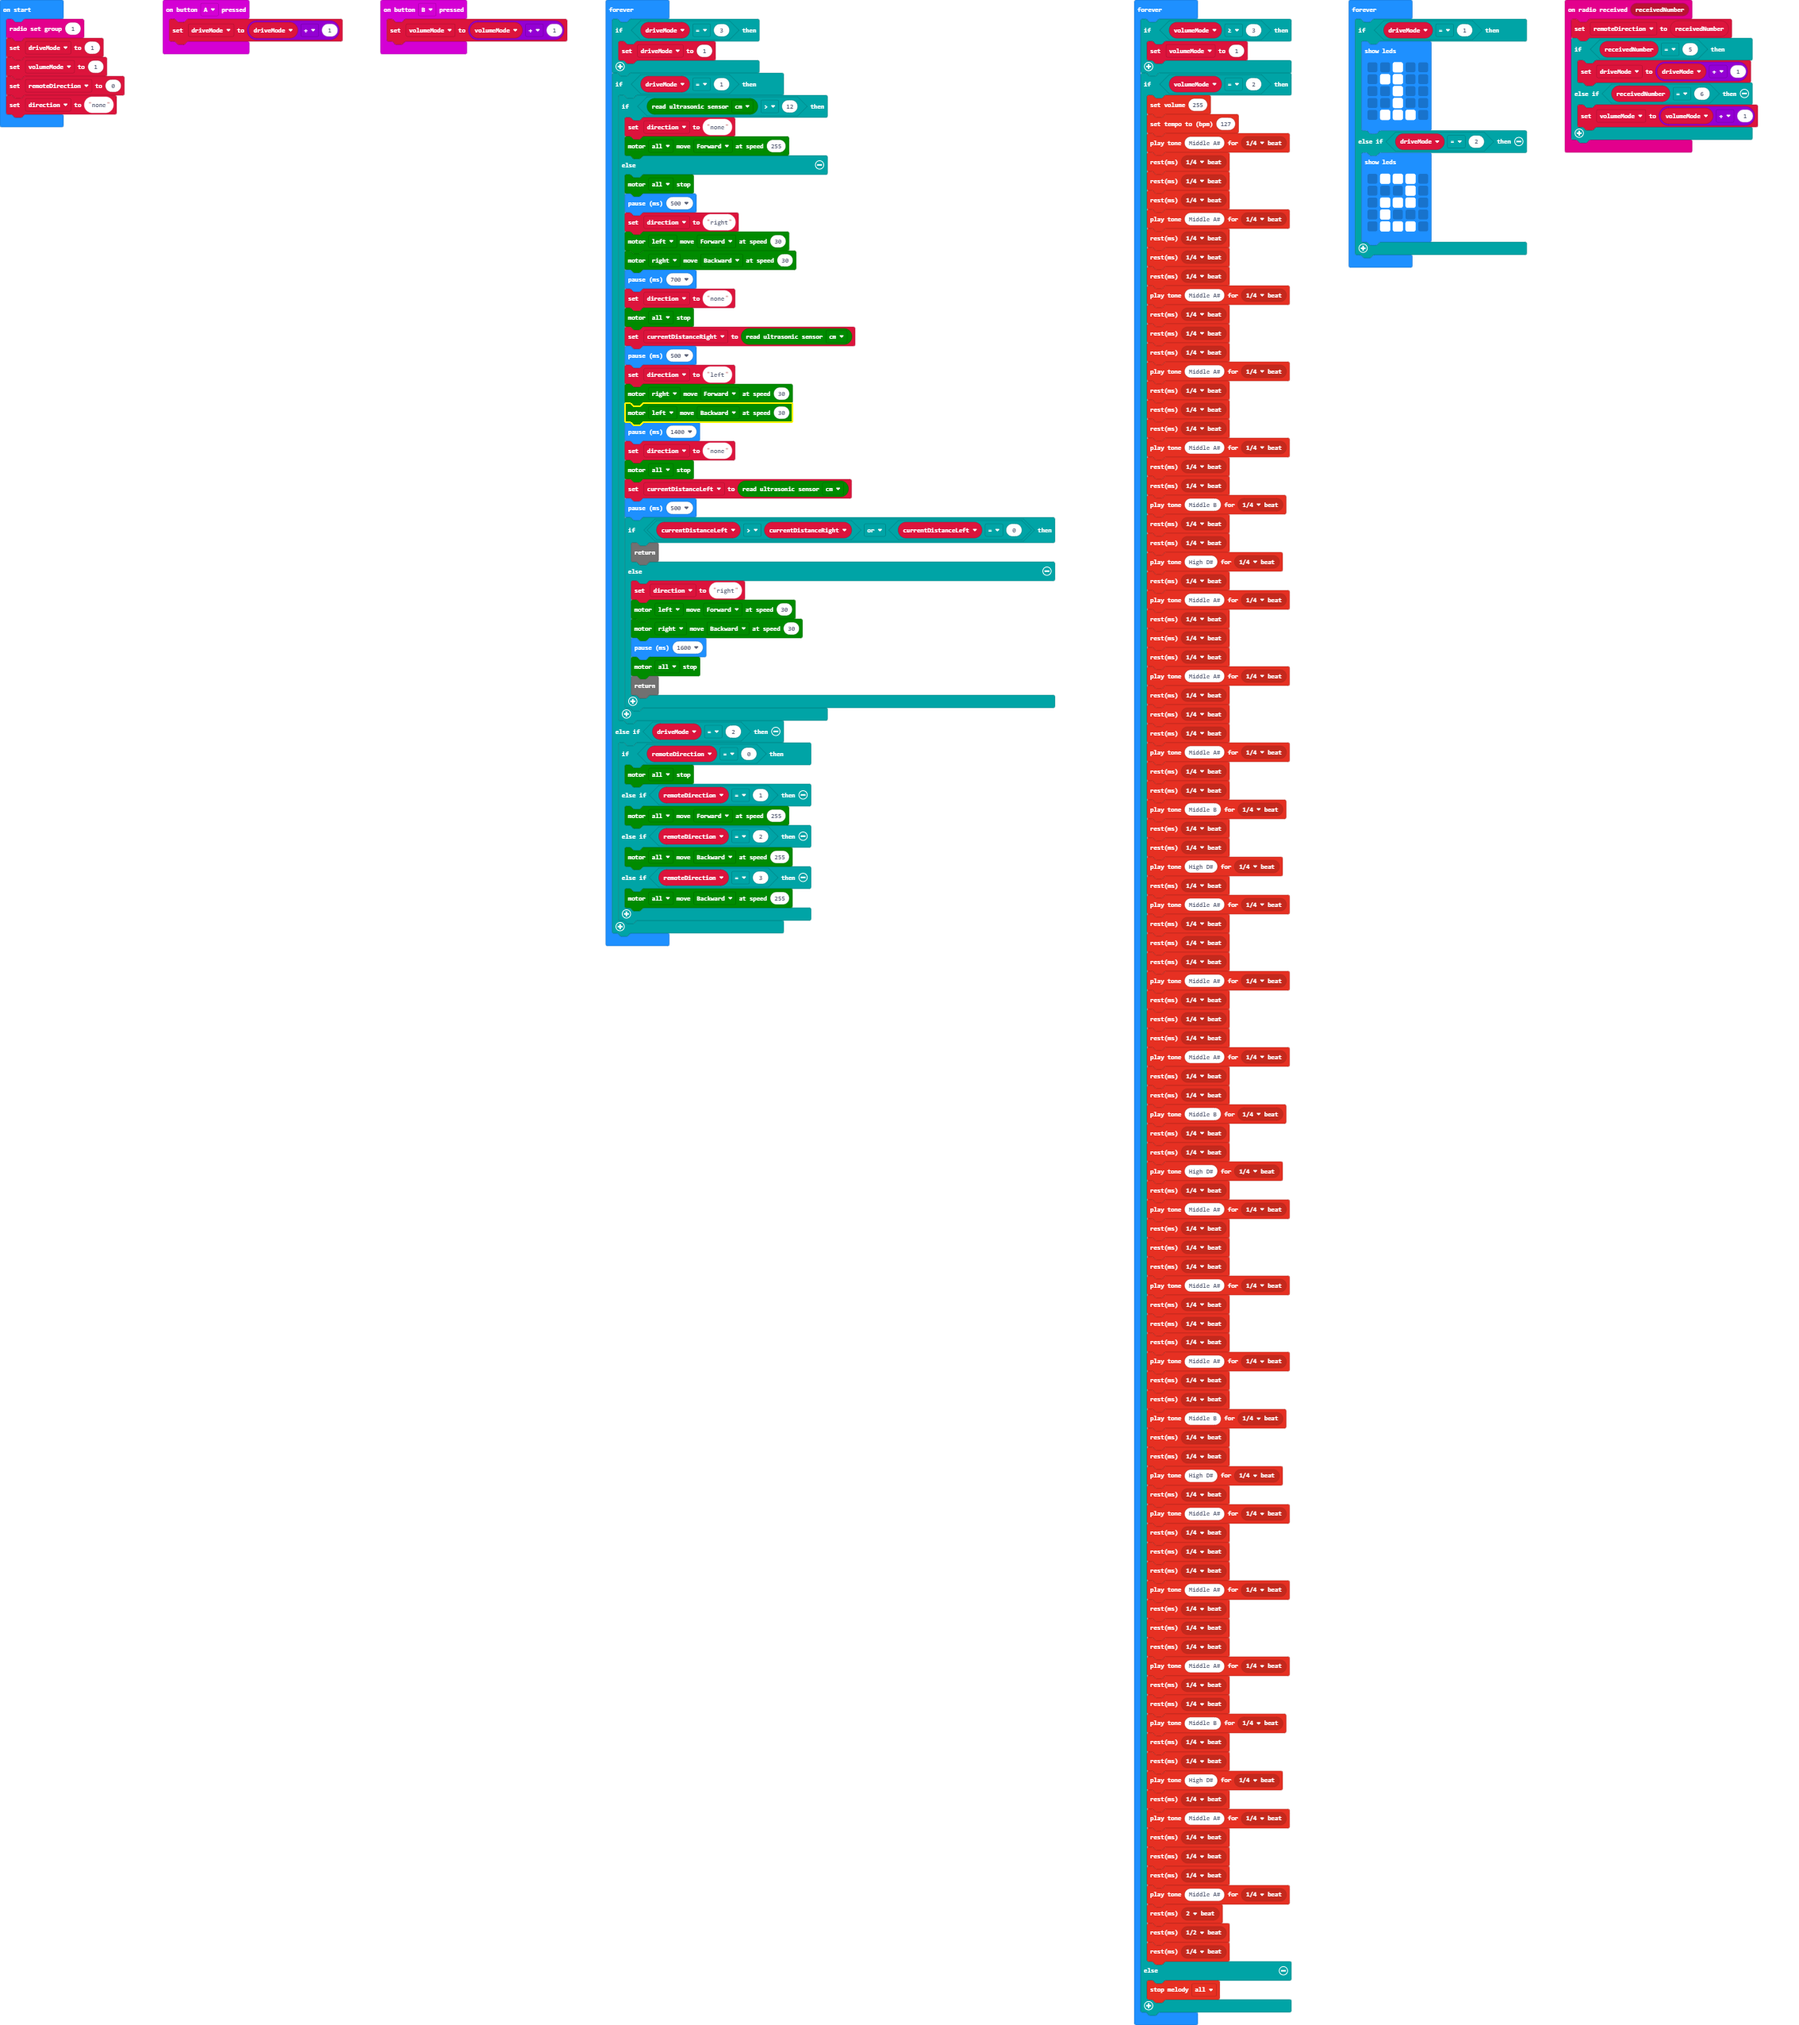
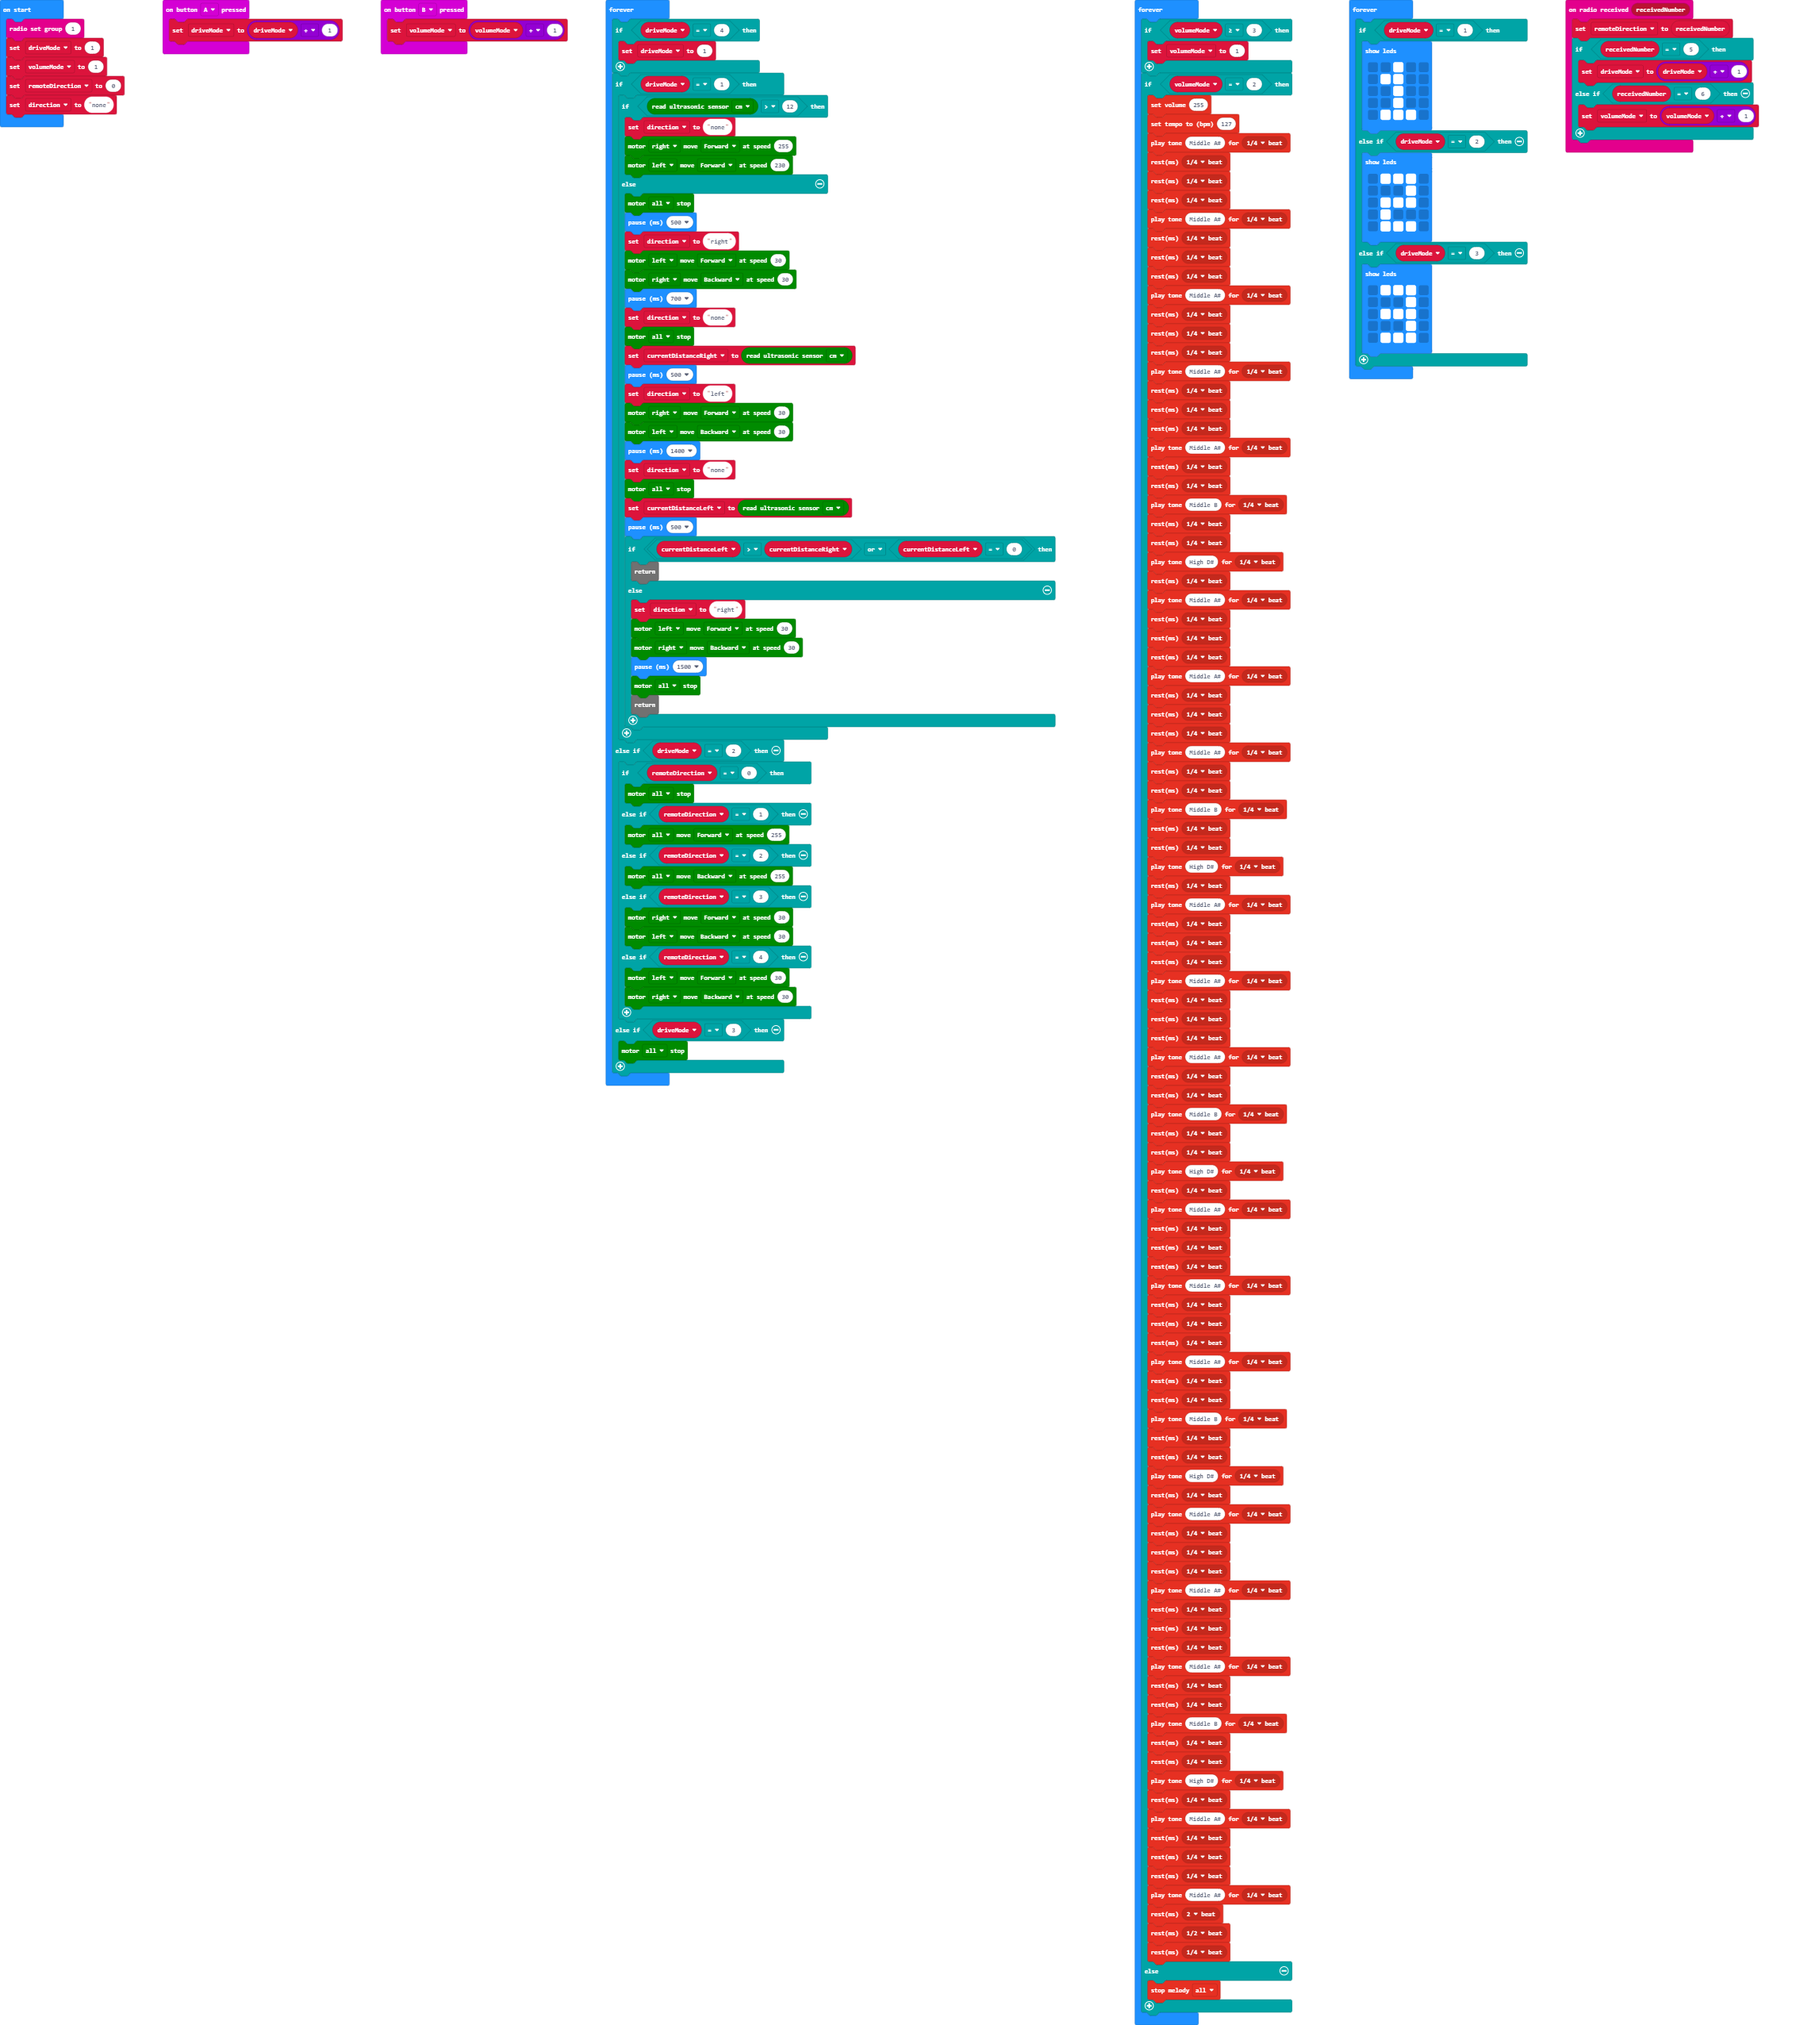
Changed values

Changed region(s): [[0.3086, 0.0619, 0.5864, 0.5572], [0.6173, 0.6501, 0.679, 0.9596], [0.7407, 0.0929, 0.8642, 0.1857]]

diff --git a/main.ts b/main.ts
@@ -29,7 +29,8 @@ basic.forever(function () {
     if (driveMode == 1) {
         if (maqueen.Ultrasonic(PingUnit.Centimeters) > 12) {
             direction = "none"
-            maqueen.motorRun(maqueen.Motors.All, maqueen.Dir.CW, 255)
+            maqueen.motorRun(maqueen.Motors.M2, maqueen.Dir.CW, 255)
+            maqueen.motorRun(maqueen.Motors.M1, maqueen.Dir.CW, 230)
         } else {
             maqueen.motorStop(maqueen.Motors.All)
             basic.pause(500)
@@ -55,7 +56,7 @@ basic.forever(function () {
                 direction = "right"
                 maqueen.motorRun(maqueen.Motors.M1, maqueen.Dir.CW, 30)
                 maqueen.motorRun(maqueen.Motors.M2, maqueen.Dir.CCW, 30)
-                basic.pause(1600)
+                basic.pause(1500)
                 maqueen.motorStop(maqueen.Motors.All)
                 return
             }
